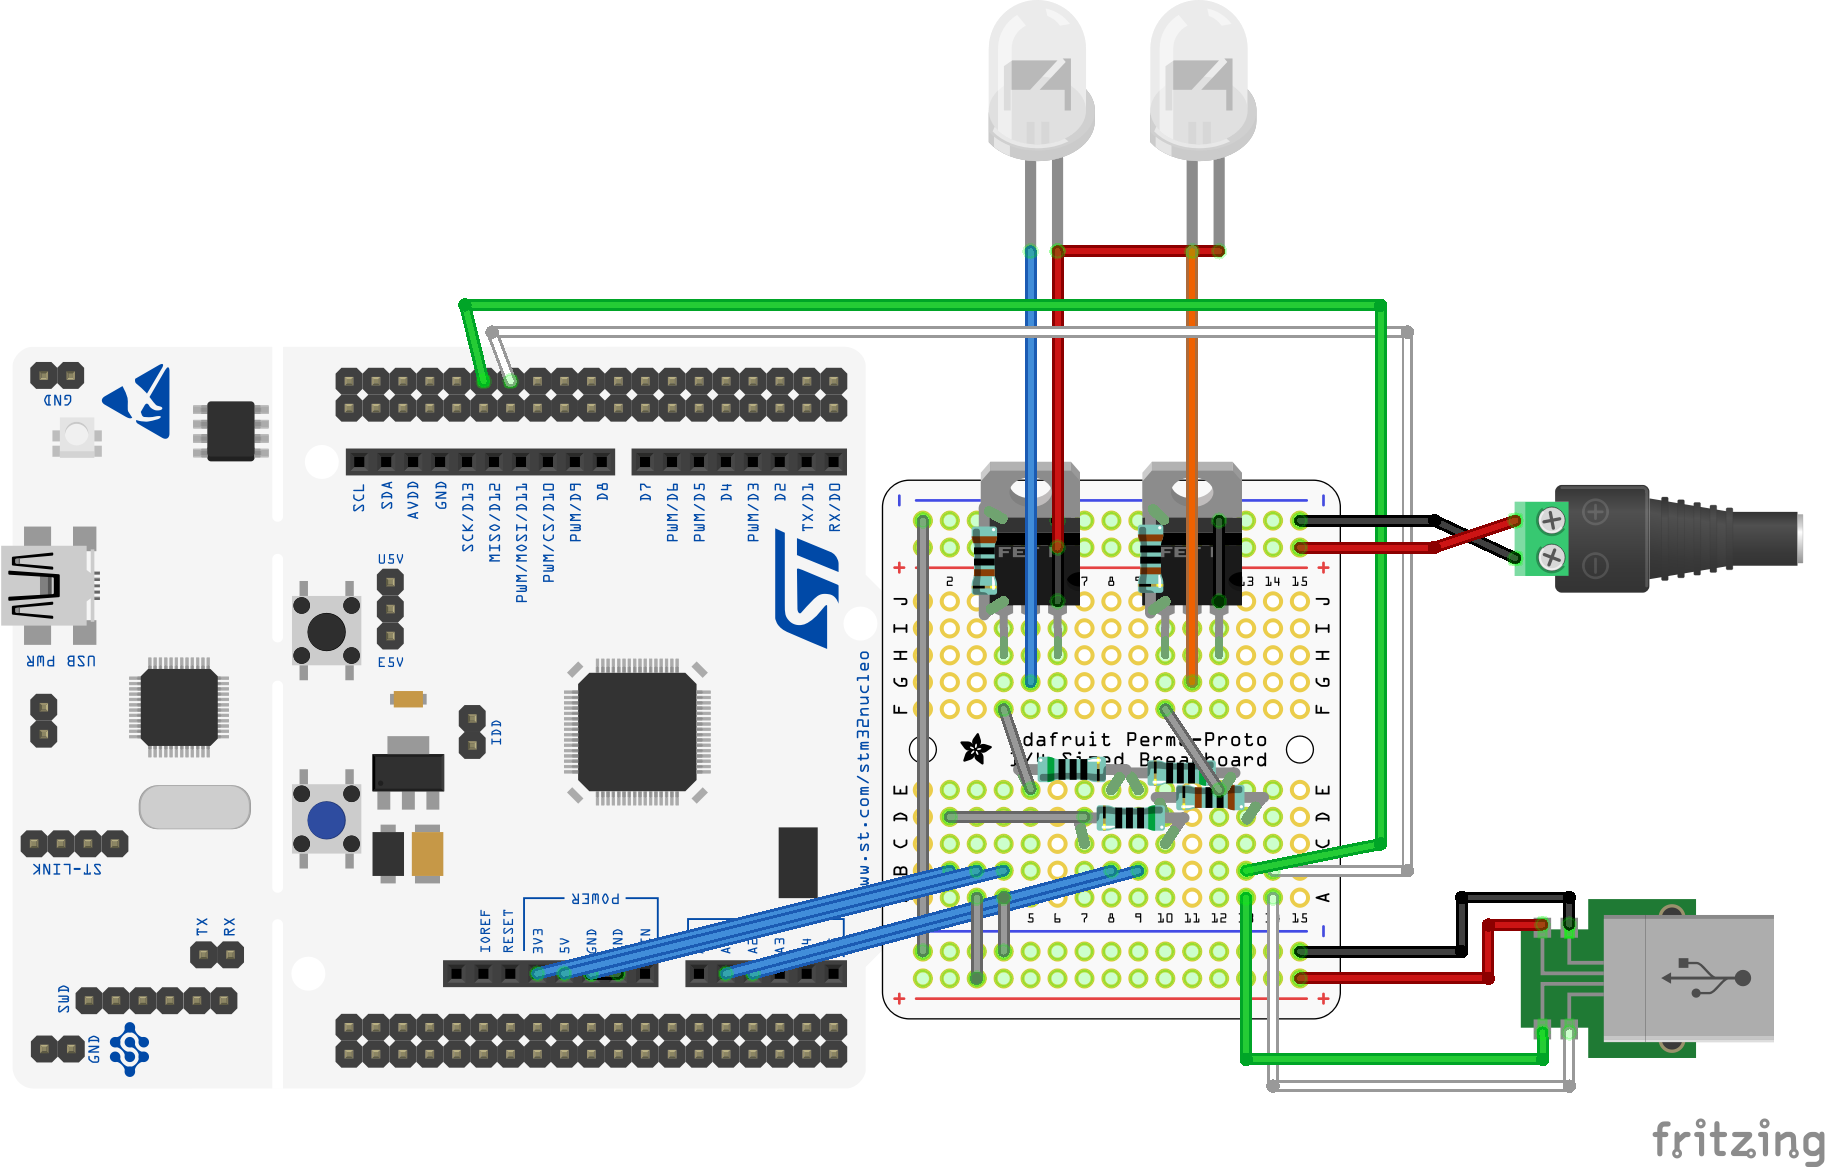
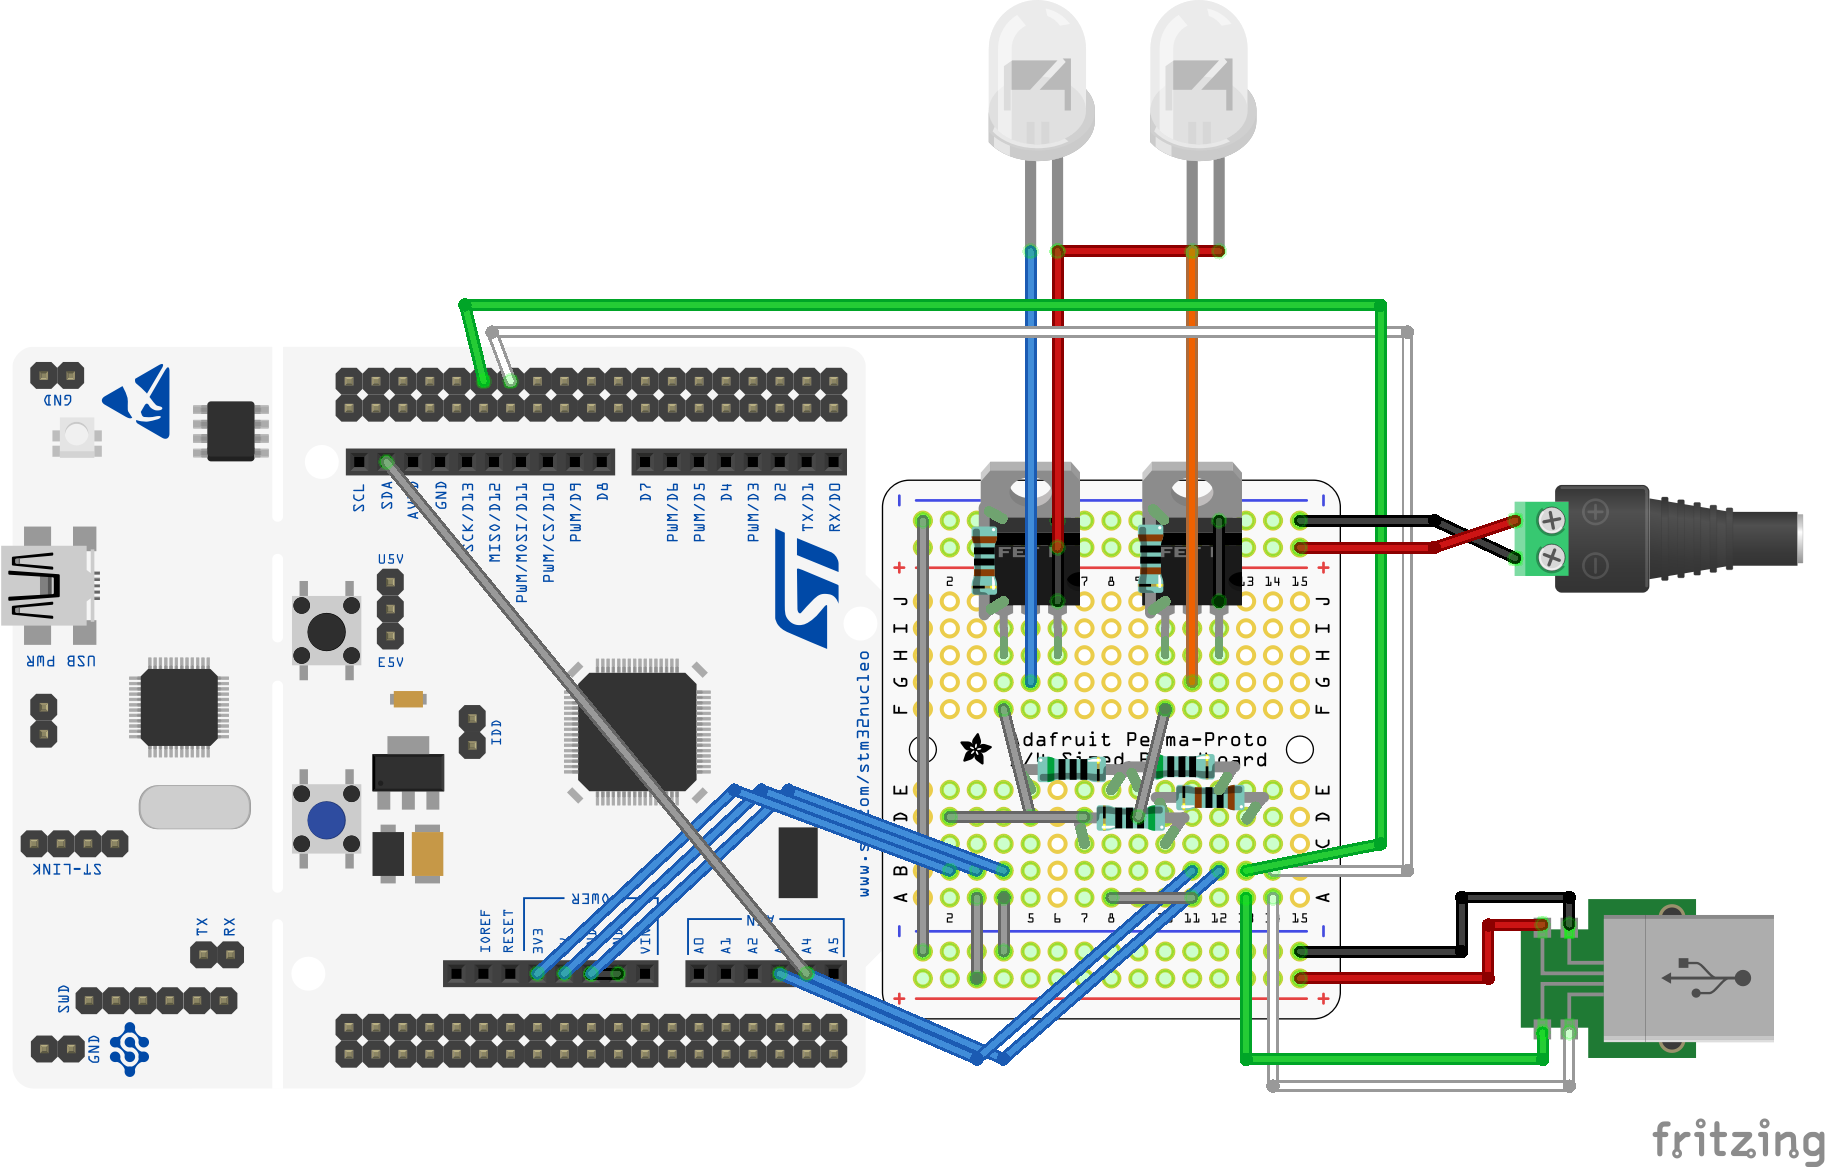
Fix HW header layout and remap led pins

diff --git a/device/src/main.cpp b/device/src/main.cpp
@@ -18,7 +18,7 @@ int main()
 
     Settings::get().PrintDiags();
 
-    LEDController controller { PA_1, PA_4 };
+    LEDController controller { A3, A4 };
 
     // Blocks until host connection completes
     USBLEDDevice usb {controller};
